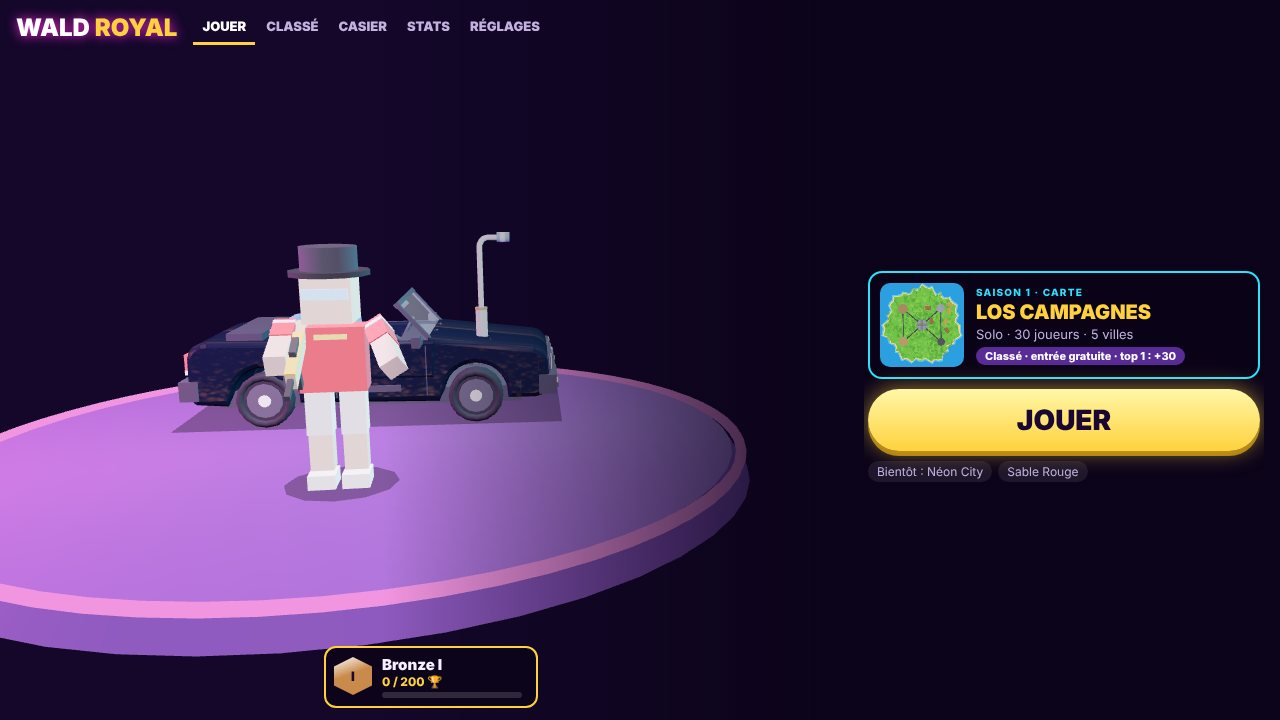
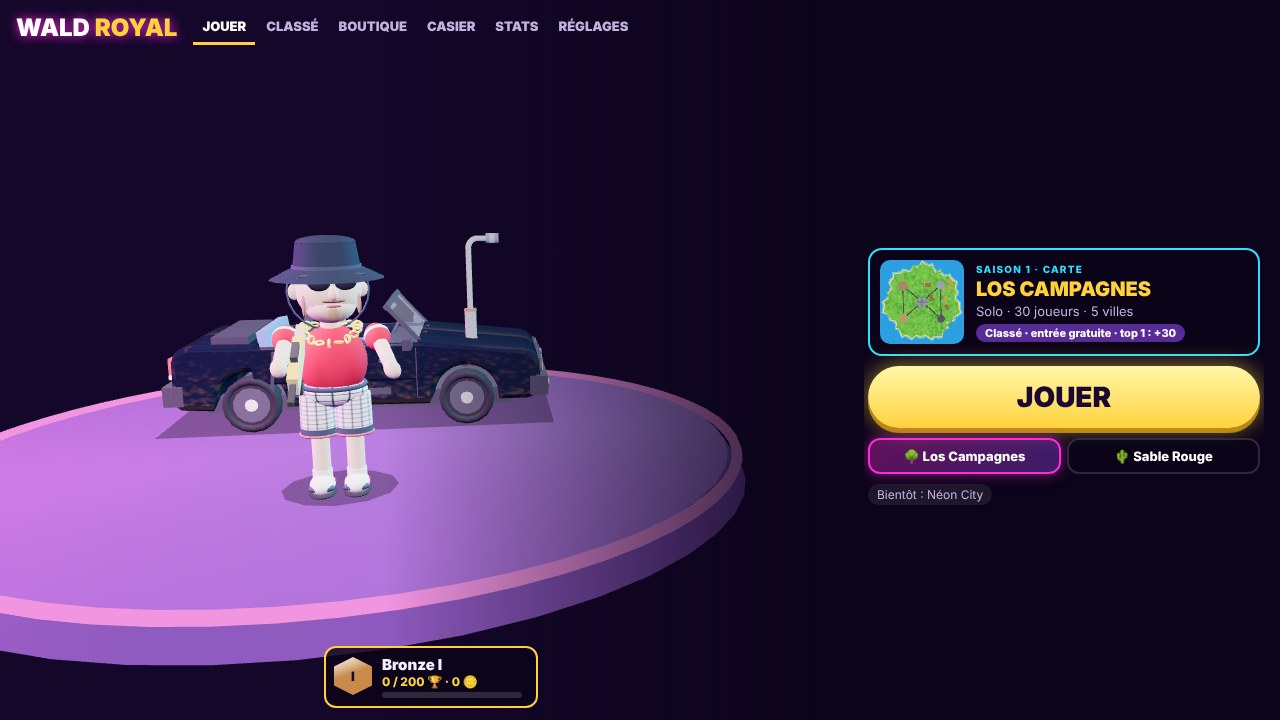
Wald Royal : musique du salon dès l'ouverture, perso qui tourne au doigt, onglet Boutique, têtes 3D dans le casier
Claude-Session: https://claude.ai/code/session_014qj46x89UK9GigraS19ptH

diff --git a/jeu/index.html b/jeu/index.html
@@ -152,7 +152,11 @@ body.inmenu .hud:not(#toast),body.inmenu .btn,body.inmenu #touch,body.inmenu .dm
 .skin{display:grid;justify-items:center;gap:2px;background:linear-gradient(180deg,#3a1a6b,#140829);border:2px solid rgba(255,255,255,.15);border-radius:12px;padding:10px 6px;text-align:center}
 .skin span{width:52px;height:52px;border-radius:10px;display:grid;place-items:center;font:900 24px var(--display);background:rgba(255,255,255,.08);overflow:hidden}
 .skin span img{width:100%;height:100%;object-fit:cover}
-.skin b{font:900 12px var(--display)}.skin small{color:var(--mute);font-size:11px}.skin.on{border-color:var(--sun)}.skin.lock{opacity:.5}.skin{cursor:pointer;position:relative}.skin canvas{width:100%;height:100%}.skin .tagr{position:absolute;top:4px;left:4px;font:800 9px var(--body);padding:1px 6px;border-radius:999px;background:#9b4dff}.skin.buy small{color:#ffd23d;font-weight:800}.skin.poor{opacity:.75}h3 .po{float:right;font:800 14px var(--body);color:#ffd23d}
+.skin b{font:900 12px var(--display)}.skin small{color:var(--mute);font-size:11px}.skin.on{border-color:var(--sun)}.skin.lock{opacity:.5}
+.shop{display:grid;grid-template-columns:repeat(3,1fr);gap:8px}.offer{position:relative;border-radius:14px;overflow:hidden;cursor:pointer;border:2px solid var(--rc);background:linear-gradient(180deg,var(--rc) -40%,#140829 70%);box-shadow:0 0 14px color-mix(in srgb,var(--rc) 45%,transparent);text-align:center;padding-bottom:6px}
+.offer img{width:100%;aspect-ratio:1;display:block}.offer b{display:block;font:900 15px var(--display)}.offer .pr{display:inline-block;margin-top:3px;font:900 13px var(--body);color:#1a0830;background:#ffd23d;border-radius:999px;padding:2px 10px}.offer .pr.own{background:#5cffc8}.offer .pr.poor{background:#7a6a9a;color:#fff}
+.offer i{position:absolute;top:6px;left:6px;font:800 10px var(--body);font-style:normal;padding:2px 7px;border-radius:999px;background:var(--rc);color:#fff}
+@media (max-height:500px){.offer b{font-size:12px}.offer .pr{font-size:11px}}.skin{cursor:pointer;position:relative}.skin canvas{width:100%;height:100%}.skin .tagr{position:absolute;top:4px;left:4px;font:800 9px var(--body);padding:1px 6px;border-radius:999px;background:#9b4dff}.skin.buy small{color:#ffd23d;font-weight:800}.skin.poor{opacity:.75}h3 .po{float:right;font:800 14px var(--body);color:#ffd23d}
 .stats{display:grid;grid-template-columns:repeat(2,1fr);gap:8px}
 .stats div{background:rgba(11,4,24,.75);border:1px solid rgba(255,255,255,.15);border-radius:12px;padding:9px;display:grid}
 .stats .kd{grid-column:1 / -1}
@@ -223,6 +227,7 @@ body.inmenu .hud:not(#toast),body.inmenu .btn,body.inmenu #touch,body.inmenu .dm
     <nav class="tabs">
       <button class="tab on" data-t="jouer" type="button">Jouer</button>
       <button class="tab" data-t="rangs" type="button">Classé</button>
+      <button class="tab" data-t="shop" type="button">Boutique</button>
       <button class="tab" data-t="casier" type="button">Casier</button>
       <button class="tab" data-t="stats" type="button">Stats</button>
       <button class="tab" data-t="reglages" type="button">Réglages</button>
@@ -244,6 +249,11 @@ body.inmenu .hud:not(#toast),body.inmenu .btn,body.inmenu #touch,body.inmenu .dm
         <h3>Partie classée</h3>
         <p class="note">Chaque partie coûte des trophées à l'entrée (gratuit en Bronze). Tu en gagnes selon ta place, +1 par élimination. Plus tu montes, plus l'entrée coûte cher : en Légende il faut faire top 2 ou 3 pour ne pas perdre.</p>
         <div class="ladder" id="ladder"></div>
+      </section>
+      <section class="pane" data-p="shop">
+        <h3>Boutique <small class="po">🪙 <span id="poN3">0</span></small></h3>
+        <div class="shop" id="shopList"></div>
+        <p class="note">Gagne des pièces 🪙 à chaque partie : +20, +10 par élimination, +100 pour un TOP 1.</p>
       </section>
       <section class="pane" data-p="casier">
         <h3>Casier <small class="po">🪙 <span id="poN2">0</span></small></h3>
@@ -358,7 +368,7 @@ function mNote(type, f, t, dur, vol, lp, f2) { var o = AC.createOscillator(), g 
 function mNoise(t, dur, vol, hp, bp) { if (!mbuf) { var n = AC.sampleRate | 0; mbuf = AC.createBuffer(1, n, AC.sampleRate); var d = mbuf.getChannelData(0); for (var i = 0; i < n; i++) d[i] = Math.random() * 2 - 1; }
   var s = AC.createBufferSource(), g = AC.createGain(), f = AC.createBiquadFilter(); f.type = bp ? 'bandpass' : 'highpass'; f.frequency.value = hp; s.buffer = mbuf; g.gain.setValueAtTime(vol, t); g.gain.exponentialRampToValueAtTime(.001, t + dur); s.connect(f); f.connect(g); g.connect(MUS); s.start(t, Math.random() * .5); s.stop(t + dur + .02); }
 function mStep(k, t) {
-  var st = k % 16, bar = Math.floor(k / 16), ch = PROG[bar % 4], intro = bar < 2, drop = bar % 8 === 7;
+  var st = k % 16, bar = Math.floor(k / 16), ch = PROG[bar % 4], intro = false, drop = bar % 8 === 7;
   if (st === 0) ch.forEach(function (n) { mNote('triangle', mf(n), t, MSTEP * 16, .035); mNote('sawtooth', mf(n + 12) * 1.004, t, MSTEP * 16, .012, 1400); });   // nappe
   if (!intro) {
     if (st === 0 || st === 7 || st === 10) { mNote('sine', 150, t, .32, .9, 0, 42); mNote('sine', mf(ch[0] - 24), t, st === 10 ? MSTEP * 6 : MSTEP * 7, .34, 0, st === 7 ? mf(ch[0] - 22) : 0); }   // kick + 808
@@ -371,7 +381,7 @@ function mStep(k, t) {
 }
 function musTick() { if (!AC || !musOn) return; while (musNext < AC.currentTime + .3) { mStep(musStep, musNext); musStep++; musNext += MSTEP; } }
 function music(on) { if (!AC) return; if (!MUS) { MUS = AC.createGain(); MUS.gain.value = 0; MUS.connect(OUT); } var t = AC.currentTime;
-  MUS.gain.cancelScheduledValues(t); MUS.gain.setValueAtTime(MUS.gain.value, t); MUS.gain.linearRampToValueAtTime(on ? .6 : 0, t + (on ? 1.5 : .5));
+  MUS.gain.cancelScheduledValues(t); MUS.gain.setValueAtTime(MUS.gain.value, t); MUS.gain.linearRampToValueAtTime(on ? .6 : 0, t + (on ? .25 : .5));
   if (on && !musOn) { musStep = 0; musNext = t + .1; } musOn = on; if (!musTimer) musTimer = setInterval(musTick, 60); }
 
 /* ================= rendu 3D ================= */
@@ -758,7 +768,7 @@ function chestModel() { var g = new THREE.Group(); box(g, 1.2, .7, .8, 0, .35, 0
 
 /* ================= joueurs ================= */
 function mySkin() { try { var s0 = JSON.parse(localStorage.getItem('wr_stats') || 'null'); if (s0 && s0.skin && SKINS_SHOP[s0.skin]) return s0.skin; } catch (e) {} return 'wald'; }
-var SKINS_SHOP = { wald: { name: 'Wald Off', price: 0, tag: 'Original' }, flubb: { name: 'Flubb', price: 400, tag: 'Rare' }, lea: { name: 'Léa', price: 700, tag: 'Épique' }, stan: { name: 'Stan', price: 1000, tag: 'Légendaire' } };
+var SKINS_SHOP = { wald: { name: 'Wald Off', price: 0, tag: 'Original' }, flubb: { name: 'Flubb', price: 400, tag: 'Rare', rc: '#3d8bff' }, lea: { name: 'Léa', price: 700, tag: 'Épique', rc: '#b44dff' }, stan: { name: 'Stan', price: 1000, tag: 'Légendaire', rc: '#ffa21f' } };
 var NAMES = ['Kevin_Bronze', 'Mamie_Turbo', 'Le_Boulanger', 'Pupuce', 'xX_Noob_Xx', 'Tonton_Diesel', 'Sardine42', 'Captain_Raclette', 'Bébert', 'Lulu_Drift', 'Chef_Kebab', 'Gégé_Rallye', 'Mimi_Sniper', 'Patrick_Bob', 'Jojo_Lapin', 'Dédé_Pneu', 'Nina_Nitro', 'Cassoulet', 'Mr_Pneu', 'La_Daronne', 'Fifi_Build', 'Tata_Ranked', 'Momo_Légende', 'Bob_Le_Pot', 'Riri_Sweat', 'Zizou_09', 'Gaston_Kart', 'Lili_Pompe', 'Doudou_Tilt'];
 var pl = [];
 for (var ib = 0; ib < NPL; ib++) {
@@ -1189,7 +1199,11 @@ function lobbyChar() { if (lme) lscene.remove(lme.root); lme = makeChar({ sk: me
 lobbyChar();
 function setMySkin(id) { ST.skin = id; saveST(); scene.remove(me.model.root); me.look = { sk: id, glider: '#ff2bd6' }; me.model = makeChar(me.look); scene.add(me.model.root); lobbyChar(); lockerRender(); }
 var lpolo = carModel('polo'); lpolo.position.set(-.8, 0, -1.4); lpolo.rotation.y = .5; lscene.add(lpolo);
-function renderLobby(t) { var a = Math.sin(t * .25) * .3 + .2; lcam.position.set(Math.sin(a) * 9.5 + 2.6, 3, Math.cos(a) * 9.5); lcam.lookAt(lcam.aspect < 2.1 ? 3.4 : 2.6, 1.2, 0); lme.head.rotation.y = Math.sin(t * .8) * .25; lme.body.position.y = Math.sin(t * 2) * .02; R3.render(lscene, lcam); }
+var lRot = 0, lVel = 0, lDrag = null;
+document.addEventListener('pointerdown', function (e) { if (state !== 'menu' || $('lobby').hidden || e.target.closest('.panel,.tabs,.rankbox,button,.lb-top')) return; lDrag = e.clientX; lVel = 0; });
+addEventListener('pointermove', function (e) { if (lDrag == null) return; var dx = e.clientX - lDrag; lDrag = e.clientX; lVel = dx * .012; lRot += lVel; });
+addEventListener('pointerup', function () { lDrag = null; }); addEventListener('pointercancel', function () { lDrag = null; });
+function renderLobby(t) { if (lDrag == null) { lRot += lVel; lVel *= .94; } if (lme) lme.root.rotation.y = -Math.PI * .5 + .55 + lRot; var a = Math.sin(t * .25) * .3 + .2; lcam.position.set(Math.sin(a) * 9.5 + 2.6, 3, Math.cos(a) * 9.5); lcam.lookAt(lcam.aspect < 2.1 ? 3.4 : 2.6, 1.2, 0); lme.head.rotation.y = Math.sin(t * .8) * .25; lme.body.position.y = Math.sin(t * 2) * .02; R3.render(lscene, lcam); }
 
 /* ================= boucle ================= */
 var tPrev = 0;
@@ -1258,7 +1272,7 @@ function pause(on) { if (on && state === 'play') { state = 'pause'; fireHeld = f
 $('play').addEventListener('click', start); $('again').addEventListener('click', start); $('toMenu').addEventListener('click', toMenu);
 $('quit').addEventListener('click', toMenu); $('resume').addEventListener('click', function () { pause(false); });
 document.addEventListener('visibilitychange', function () { if (document.hidden) { pause(true); music(false); } else if (state === 'menu') music(true); });
-['pointerdown', 'keydown', 'touchstart'].forEach(function (ev) { addEventListener(ev, function () { if (state === 'menu' && !musOn) { initAudio(); music(true); } }, true); });
+['pointerdown', 'keydown', 'touchstart'].forEach(function (ev) { addEventListener(ev, function () { if (state === 'menu') { initAudio(); if (!musOn) music(true); } }, true); });
 function tab(t) { document.querySelectorAll('.tab').forEach(function (b) { b.classList.toggle('on', b.dataset.t === t); }); document.querySelectorAll('.pane').forEach(function (p) { p.classList.toggle('on', p.dataset.p === t); }); }
 document.querySelectorAll('.tab').forEach(function (b) { b.addEventListener('click', function () { tab(b.dataset.t); }); });
 $('vol').value = Math.round(SET.vol * 100); $('volO').textContent = $('vol').value; $('vol').addEventListener('input', function () { SET.vol = this.value / 100; $('volO').textContent = this.value; if (OUT) OUT.gain.value = SET.vol; saveSet(); });
@@ -1269,24 +1283,28 @@ if (isTouch) $('keys').innerHTML = '<b>Gauche</b><span>joystick : marcher / cond
 (function () { var c = $('mapPrev'), g = c.getContext('2d'), k = TEX / 1000; g.drawImage(terr, 60 * k, 60 * k, 880 * k, 880 * k, 0, 0, c.width, c.height); })();
 addEventListener('resize', resize);
 var THUMBS = {};
-function skinThumb(id) {
-  if (THUMBS[id]) return THUMBS[id];
-  var W2 = 128, rt = new THREE.WebGLRenderTarget(W2, W2), sc = new THREE.Scene(), cm = new THREE.PerspectiveCamera(30, 1, .1, 50);
+function skinThumb(id, bust) {
+  var key = id + (bust ? 'h' : ''); if (THUMBS[key]) return THUMBS[key];
+  var W2 = bust ? 128 : 192, rt = new THREE.WebGLRenderTarget(W2, W2), sc = new THREE.Scene(), cm = new THREE.PerspectiveCamera(30, 1, .1, 50);
   sc.background = new THREE.Color('#2a1450'); sc.add(new THREE.HemisphereLight('#ffffff', '#3a1a60', 1)); var dl = new THREE.DirectionalLight('#fff', .7); dl.position.set(4, 5, 3); sc.add(dl);
-  var c0 = makeChar({ sk: id }); c0.shadow.visible = false; c0.root.rotation.y = -.5; sc.add(c0.root); cm.position.set(4.2, 1.9, 0); cm.lookAt(0, 1.75, 0);
+  var c0 = makeChar({ sk: id }); c0.shadow.visible = false; c0.root.rotation.y = bust ? -.35 : -.5; sc.add(c0.root); if (bust) { cm.position.set(2.7, 2.15, 0); cm.lookAt(0, 2.0, 0); } else { cm.position.set(5.6, 1.5, 0); cm.lookAt(0, 1.2, 0); }
   var tm = R3.toneMapping; R3.setRenderTarget(rt); R3.render(sc, cm); var px = new Uint8Array(W2 * W2 * 4); R3.readRenderTargetPixels(rt, 0, 0, W2, W2, px); R3.setRenderTarget(null); rt.dispose();
   var cvs = document.createElement('canvas'); cvs.width = cvs.height = W2; var g = cvs.getContext('2d'), im = g.createImageData(W2, W2);
   for (var y = 0; y < W2; y++) im.data.set(px.subarray((W2 - 1 - y) * W2 * 4, (W2 - y) * W2 * 4), y * W2 * 4);
-  g.putImageData(im, 0, 0); return (THUMBS[id] = cvs.toDataURL());
+  g.putImageData(im, 0, 0); return (THUMBS[key] = cvs.toDataURL());
 }
 function lockerRender() {
-  var el = $('skinList'); if (!el) return; $('poN2').textContent = ST.po || 0;
-  el.innerHTML = Object.keys(SKINS_SHOP).map(function (id) { var d = SKINS_SHOP[id], own = (ST.own || []).indexOf(id) >= 0, on = (ST.skin || 'wald') === id;
-    return '<div class="skin ' + (on ? 'on' : own ? '' : (ST.po || 0) >= d.price ? 'buy' : 'buy poor') + '" data-s="' + id + '"><span><img src="' + skinThumb(id) + '" alt=""></span><i class="tagr">' + d.tag + '</i><b>' + d.name + '</b><small>' + (on ? 'Équipé' : own ? 'Équiper' : d.price + ' 🪙') + '</small></div>'; }).join('');
-  el.querySelectorAll('.skin').forEach(function (b) { b.addEventListener('click', function () { var id = b.dataset.s, d = SKINS_SHOP[id]; ST.own = ST.own || ['wald'];
-    if (ST.own.indexOf(id) < 0) { if ((ST.po || 0) < d.price) { toast('Il te manque ' + (d.price - (ST.po || 0)) + ' 🪙'); return; } ST.po -= d.price; ST.own.push(id); toast(d.name.toUpperCase() + ' DÉBLOQUÉ !'); SFX.chest(); }
-    setMySkin(id); showStats(); }); });
+  var el = $('skinList'); if (!el) return; $('poN2').textContent = $('poN3').textContent = ST.po || 0; ST.own = ST.own || ['wald'];
+  $('shopList').innerHTML = Object.keys(SKINS_SHOP).filter(function (id) { return SKINS_SHOP[id].price; }).map(function (id) { var d = SKINS_SHOP[id], own = ST.own.indexOf(id) >= 0;
+    return '<div class="offer" style="--rc:' + d.rc + '" data-s="' + id + '"><i>' + d.tag + '</i><img src="' + skinThumb(id) + '" alt=""><b>' + d.name + '</b><span class="pr' + (own ? ' own' : (ST.po || 0) < d.price ? ' poor' : '') + '">' + (own ? '✔ Acheté' : d.price + ' 🪙') + '</span></div>'; }).join('');
+  $('shopList').querySelectorAll('.offer').forEach(function (b) { b.addEventListener('click', function () { buySkin(b.dataset.s); }); });
+  el.innerHTML = Object.keys(SKINS_SHOP).filter(function (id) { return ST.own.indexOf(id) >= 0; }).map(function (id) { var d = SKINS_SHOP[id], own = (ST.own || []).indexOf(id) >= 0, on = (ST.skin || 'wald') === id;
+    return '<div class="skin ' + (on ? 'on' : own ? '' : (ST.po || 0) >= d.price ? 'buy' : 'buy poor') + '" data-s="' + id + '"><span><img src="' + skinThumb(id, 1) + '" alt=""></span><i class="tagr">' + d.tag + '</i><b>' + d.name + '</b><small>' + (on ? 'Équipé' : own ? 'Équiper' : d.price + ' 🪙') + '</small></div>'; }).join('');
+  el.querySelectorAll('.skin').forEach(function (b) { b.addEventListener('click', function () { setMySkin(b.dataset.s); }); });
 }
+function buySkin(id) { var d = SKINS_SHOP[id]; ST.own = ST.own || ['wald'];
+  if (ST.own.indexOf(id) < 0) { if ((ST.po || 0) < d.price) { toast('Il te manque ' + (d.price - (ST.po || 0)) + ' 🪙'); return; } ST.po -= d.price; ST.own.push(id); toast(d.name.toUpperCase() + ' DÉBLOQUÉ !'); SFX.chest(); }
+  setMySkin(id); showStats(); }
 window.lockerRender = lockerRender;
 $('mapName').textContent = MAPNAME;
 document.querySelectorAll('#maps button').forEach(function (b) { b.classList.toggle('on', b.dataset.m === MAP); b.addEventListener('click', function () { if (b.dataset.m === MAP) return; try { localStorage.setItem('wr_map', b.dataset.m); } catch (e) {}
@@ -1301,6 +1319,7 @@ if (standalone || /[?&]jouer/.test(location.search)) $('lobby').hidden = false; 
 if ('serviceWorker' in navigator && location.protocol === 'https:' && !/WaldRoyalApp/.test(navigator.userAgent) && location.hostname !== 'appassets.androidplatform.net') navigator.serviceWorker.register('sw.js').catch(function () {});
 
 setGfx(SET.gfx); showStats(); reset(); requestAnimationFrame(loop);
+if (!$('lobby').hidden) { initAudio(); music(true); }
 window.WR = { get me() { return me; }, pl: pl, vehicles: vehicles, get state() { return state; }, start: start, update: update, items: items, setCam: function (a, p) { camA = a; camP = p; }, fire: function (on) { fireHeld = on; }, give: function (k) { me.inv[me.slot] = newSlot(k); } };
 })();
 </script>

diff --git a/wald-royal/index.html b/wald-royal/index.html
@@ -199,6 +199,7 @@ footer a{color:var(--cyan)}
     <button class="shot" type="button" data-src="img/collines.jpg"><img src="img/collines.jpg" alt="Les collines de Los Campagnes avec trois armes dans l'inventaire" width="1280" height="720"><span class="cap">Les collines de Los Campagnes</span></button>
     <button class="shot" type="button" data-src="img/combat.jpg"><img src="img/combat.jpg" alt="Combat au Fusil Doré face à un joueur" width="1280" height="720"><span class="cap">Tir auto activé</span></button>
     <button class="shot" type="button" data-src="img/lobby.jpg"><img src="img/lobby.jpg" alt="Le menu du jeu avec le perso et La Wald" width="1280" height="720"><span class="cap">Le lobby</span></button>
+    <button class="shot" type="button" data-src="img/boutique.jpg"><img src="img/boutique.jpg" alt="La boutique du jeu avec les skins Flubb, Léa et Stan" width="1280" height="720"><span class="cap">La boutique de skins</span></button>
   </div>
 </div></section>
 

diff --git a/jeu/sw.js b/jeu/sw.js
@@ -1,5 +1,5 @@
 // Cache hors-ligne du jeu Wald Royale (3D)
-var V = 'wald-royale-3d-v9';
+var V = 'wald-royale-3d-v10';
 var FILES = ['./', 'index.html', 'manifest.webmanifest', 'three.min.js', 'polo3d.js', 'skins.js', 'polo3d.html', 'avatar.jpg', 'logo.jpg', 'sons/polo.mp3', 'sons/wald_off.mp3', 'icons/icon-192.png', 'icons/icon-512.png', 'icons/icon-180.png'];
 self.addEventListener('install', function (e) { e.waitUntil(caches.open(V).then(function (c) { return c.addAll(FILES); }).then(function () { return self.skipWaiting(); })); });
 self.addEventListener('activate', function (e) { e.waitUntil(caches.keys().then(function (ks) { return Promise.all(ks.filter(function (k) { return k !== V; }).map(function (k) { return caches.delete(k); })); }).then(function () { return self.clients.claim(); })); });

diff --git a/app/desktop/main.js b/app/desktop/main.js
@@ -1,5 +1,6 @@
 // Wald Royal pour PC : fenêtre plein écran, le jeu tourne depuis les fichiers installés (hors ligne)
 const { app, BrowserWindow, protocol, net, Menu } = require('electron');
+app.commandLine.appendSwitch('autoplay-policy', 'no-user-gesture-required');   // musique du salon dès l'ouverture
 const path = require('path');
 const { pathToFileURL } = require('url');
 

diff --git a/CLAUDE.md b/CLAUDE.md
@@ -36,7 +36,7 @@ Ce fichier sert à reprendre le développement du jeu **Wald Royal** dans une no
 | `jeu/polo3d.js` | `window.buildPolo(THREE,{lite,lights})` : modèle 3D détaillé de La Wald |
 | `jeu/skins.js` | `window.buildSkin(THREE, id)` : skins cartoon `wald` (défaut), `flubb`, `lea`, `stan`, faits en formes arrondies puis fusionnés par matériau |
 | `jeu/polo3d.html` | Visionneuse 3D de La Wald (rotation, phares, faire rouler) |
-| `jeu/manifest.webmanifest`, `jeu/sw.js` | PWA. Cache `wald-royale-3d-v9` : **monter la version à chaque modif** |
+| `jeu/manifest.webmanifest`, `jeu/sw.js` | PWA. Cache `wald-royale-3d-v10` : **monter la version à chaque modif** |
 | `jeu/logo.jpg`, `jeu/icons/` | Logo et icônes (512/192/180) |
 | `wald-royal/index.html`, `wald-royal/img/*.jpg` | Page vitrine + captures du jeu |
 | `app/android/` | Appli Android : WebView + WebViewAssetLoader, `fr.waldoff.royal` |
@@ -128,9 +128,9 @@ cd /home/claude/wo && (python3 -m http.server 8765 >/dev/null 2>&1 &); sleep 1
 
 ## Ajouts de novembre 2026
 - **Deux cartes** : `MAP` = `campagne` (Los Campagnes) ou `desert` (Sable Rouge). Choix dans le lobby (boutons sous JOUER), gardé dans `localStorage.wr_map` ou `?map=`, la page se recharge pour construire la carte. `DES` = vrai sur le désert : ciel orangé, dunes + mesas dans `baseH`, cactus et rochers rouges, villes Mirage City / Canyon Rouillé / Oasis Chrome / Puits Turbo / Fort Cactus (mêmes plans que la carte verte pour l'instant, à améliorer).
-- **Musique du lobby** : générée en WebAudio (`music(on)`, `mStep`), libre de droits. Démarre au premier toucher dans le menu, coupée en partie.
+- **Musique du lobby** : générée en WebAudio (`music(on)`, `mStep`), libre de droits. Lancée dès l'ouverture du salon (autoplay autorisé dans l'APK et dans Electron via `autoplay-policy`) ; dans un navigateur elle démarre au premier toucher. Coupée en partie.
 - **K/D** : juste « K/D », sans phrase d'explication.
-- **Skins + pièces 🪙** : `SKINS_SHOP` (Wald Off gratuit, Flubb 400, Léa 700, Stan 1000). Pièces gagnées à chaque partie dans `settle` (20 + 10/élim + bonus de place), stockées dans `ST.po`, skins possédés dans `ST.own`, skin équipé dans `ST.skin`. Casier = `lockerRender()` avec miniatures rendues par `skinThumb()`. `makeChar(lk)` utilise `buildSkin` si `lk.sk`. Un bot sur trois porte Flubb, Léa ou Stan. Modèles de référence : planches Gemini envoyées par l'utilisateur (pas de logo sur les baskets).
+- **Skins + pièces 🪙** : `SKINS_SHOP` (Wald Off gratuit, Flubb 400, Léa 700, Stan 1000). Pièces gagnées à chaque partie dans `settle` (20 + 10/élim + bonus de place), stockées dans `ST.po`, skins possédés dans `ST.own`, skin équipé dans `ST.skin`. Onglet **Boutique** (`#shopList`, skins payants en pied, couleur de rareté) et **Casier** (skins possédés, miniature tête 3D `skinThumb(id, 1)`), tous deux remplis par `lockerRender()`, achat via `buySkin()`. Au salon, on fait tourner le perso en glissant le doigt (`lRot`, avec inertie). `makeChar(lk)` utilise `buildSkin` si `lk.sk`. Un bot sur trois porte Flubb, Léa ou Stan. Modèles de référence : planches Gemini envoyées par l'utilisateur (pas de logo sur les baskets).
 
 ## Idées en attente / pistes
 - Une clé de signature Android secrète (secret GitHub) avant le Play Store.
